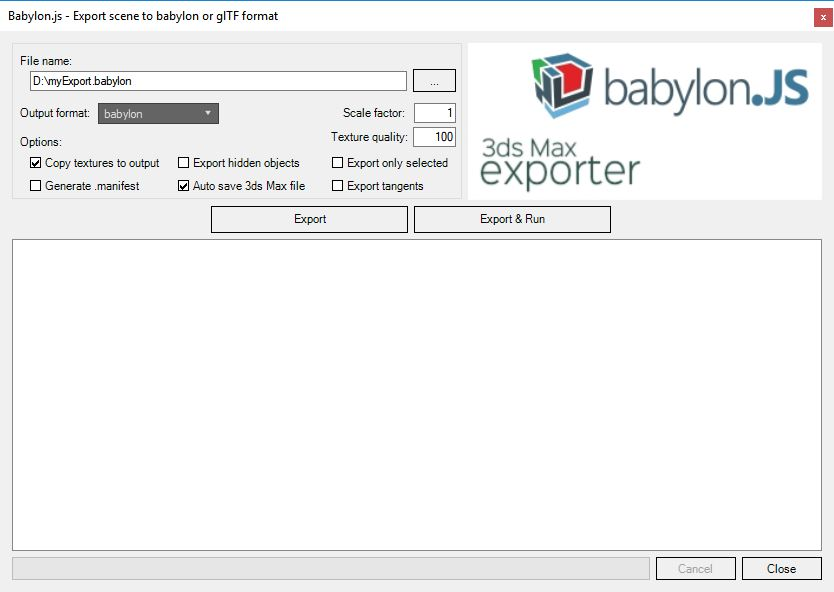
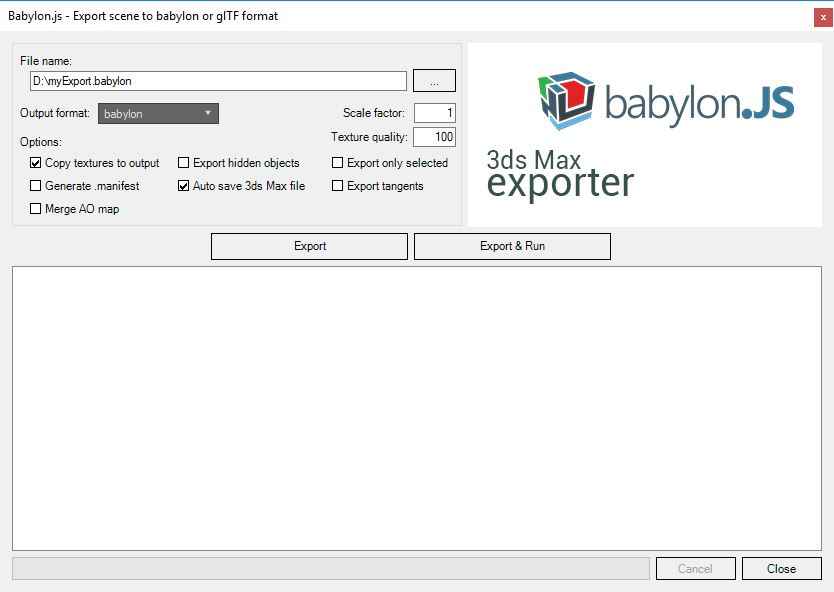
Update 3DSMax exporter screenshots and add a description for the 'Merge AO map' option.

Changed region(s): [[0.2494, 0.0912, 0.9664, 0.4561], [0.0312, 0.3345, 0.1559, 0.3649]]

diff --git a/content/resources/Exporter/3DSMax.md b/content/resources/Exporter/3DSMax.md
@@ -160,6 +160,8 @@ The _Scale factor_ can be used to rescale the whole world. If you set a scale fa
 
 The _Texture quality_ sets the convertion quality of bitmap to JPEG. At 100 (the maximum value), it gives the highest image quality but no file size reduction. On the contrary at 0 (the minimum value), it gives the lowest image quality but the greatest file size reduction. By default the _Texture quality_ is set to 100.
 
+The _Merge AO map_ option enables the merging of the Ambient Occlusion shadow map (stored on Diffuse Roughness slot) with the Metalness and Roughness map.
+
 The _Export_ button should be used to create the Babylon file representing your scene. The _Export & Run_ button will also create the Babylon file, but will also launch your default browser and run the newly made Babylon file. This button is very useful if you just want to test the render of your scene in Babylon.js. 
 
 As babylon.js script is retrieved directly from the official website directly, you should have internet access in order to correctly use Export & Run.  
